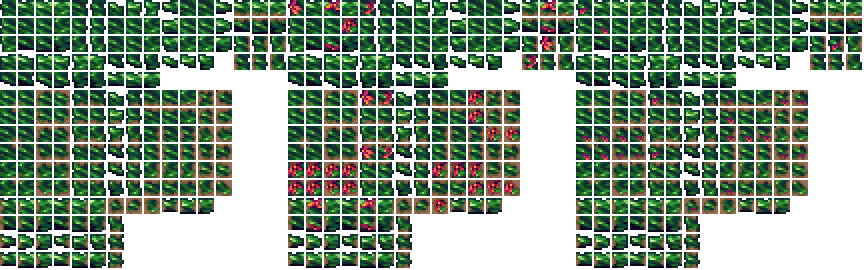
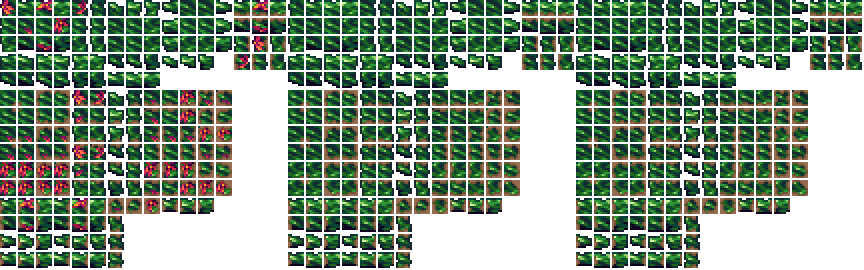
Perennial Ore Visuals

diff --git a/Tiles/Ores/PerennialOre.cs b/Tiles/Ores/PerennialOre.cs
@@ -5,6 +5,7 @@ using ReLogic.Content;
 using Terraria;
 using Terraria.ModLoader;
 using Terraria.ID;
+using System;
 
 namespace CalamityMod.Tiles.Ores
 {
@@ -20,6 +21,8 @@ namespace CalamityMod.Tiles.Ores
             Main.tileMergeDirt[Type] = true;
             Main.tileBlockLight[Type] = true;
             Main.tileOreFinderPriority[Type] = 710;
+            Main.tileShine[Type] = 2500;
+            Main.tileShine2[Type] = true;
 
             CalamityUtils.MergeWithGeneral(Type);
 
@@ -46,12 +49,115 @@ namespace CalamityMod.Tiles.Ores
         {
             num = fail ? 1 : 3;
         }
-
         public override void ModifyLight(int i, int j, ref float r, ref float g, ref float b)
         {
-            r = 0.04f;
-            g = 0.10f;
-            b = 0.02f;
+            //The base green color glow
+            r = 0.08f;
+            g = 0.2f;
+            b = 0.04f;
+            var tile = Main.tile[i, j];
+            var pos = new Vector2(tile.TileFrameX, tile.TileFrameY);
+
+            Vector2[] positionsFlower = new Vector2[]
+            {
+                //Top row (always y = 0 on tile sheets)
+                new Vector2(0, 0),
+                new Vector2(36, 0),
+                new Vector2(72, 0),
+                new Vector2(252, 0),
+
+                //Second row (always y = 18 on tile sheets)
+                new Vector2(18, 18),
+                new Vector2(54, 18),
+                new Vector2(252, 18),
+
+                //Third row (always y = 36 on tile sheets)
+                new Vector2(36, 36),
+                new Vector2(252, 36),
+
+                //Forth row (always y = 54 on tile sheets)
+                new Vector2(250, 54),
+
+                //Nothing on fifth row (always y = 72 on tile sheets)
+
+                //Sixth row (always y = 90 on tile sheets)
+                new Vector2(72, 90),
+                new Vector2(90, 90),
+                new Vector2(144, 90),
+                new Vector2(180, 90),
+                new Vector2(198, 90),
+                new Vector2(216, 90),
+
+                //Seventh row (always y = 108 on tile sheets)
+                new Vector2(72, 108),
+                new Vector2(144, 108),
+                new Vector2(180, 108),
+
+                //Eighth row (always y = 126 on tile sheets)
+                new Vector2(0, 126),
+                new Vector2(18, 126),
+                new Vector2(36, 126),
+                new Vector2(54, 126),
+                new Vector2(144, 126),
+                new Vector2(162, 126),
+                new Vector2(180, 126),
+                new Vector2(198, 126),
+                new Vector2(216, 126),
+
+                //Ninth row (always y = 144 on tile sheets)
+                new Vector2(0, 144),
+                new Vector2(18, 144),
+                new Vector2(36, 144),
+                new Vector2(54, 144),
+                new Vector2(72, 144),
+                new Vector2(90, 144),
+                new Vector2(198, 144),
+                new Vector2(216, 144),
+                //Tenth row (always y = 162 on tile sheets)
+                new Vector2(0, 162),
+                new Vector2(18, 162),
+                new Vector2(36, 162),
+                new Vector2(54, 162),
+                new Vector2(72, 162),
+                new Vector2(144, 162),
+                new Vector2(162, 162),
+                new Vector2(180, 162),
+                //Eleventh row (always y = 180 on tile sheets)
+                new Vector2(0, 180),
+                new Vector2(18, 180),
+                new Vector2(36, 180),
+                new Vector2(54, 180),
+                new Vector2(144, 180),
+                new Vector2(180, 180),
+                new Vector2(198, 180),
+                new Vector2(216, 180),
+                //Twelfth row (always y = 198 on tile sheets)
+                new Vector2(18, 198),
+                new Vector2(72, 198),
+                new Vector2(108, 198),
+                new Vector2(144, 198),
+                //Thirteenth row (always y = 216 on tile sheets)
+                new Vector2(18, 216),
+                new Vector2(72, 216),
+                //Nothing on fourteenth row (always y = 249 on tile sheets)
+
+                //Nothing on fifteenth row (always y = 252 on tile sheets)
+            };
+            foreach (var positionFlower in positionsFlower)
+            {
+                if (pos == positionFlower)
+                {
+                    float brightness = 0.7f;
+                    brightness *= MathF.Sin(Main.GameUpdateCount * 0.02f);
+                    brightness += 0.3f;
+                    r = 0.83f;
+                    g = 0.16f;
+                    b = 0.31f;
+                    r *= brightness;
+                    g *= brightness;
+                    b *= brightness;
+                }
+            }
         }
         public override void AnimateIndividualTile(int type, int i, int j, ref int frameXOffset, ref int frameYOffset)
         {
@@ -240,7 +346,7 @@ namespace CalamityMod.Tiles.Ores
             xPos += xOffset;
             Vector2 zero = Main.drawToScreen ? Vector2.Zero : new Vector2(Main.offScreenRange);
             Vector2 drawOffset = new Vector2(i * 16 - Main.screenPosition.X, j * 16 - Main.screenPosition.Y) + zero;
-            Color drawColour = GetDrawColour(i, j, new Color(50, 50, 50, 50));
+            Color drawColour = GetDrawColour(i, j, new Color(175, 175, 175, 175));
             Tile trackTile = Main.tile[i, j];
 
             if (!trackTile.IsHalfBlock && trackTile.Slope == 0)
